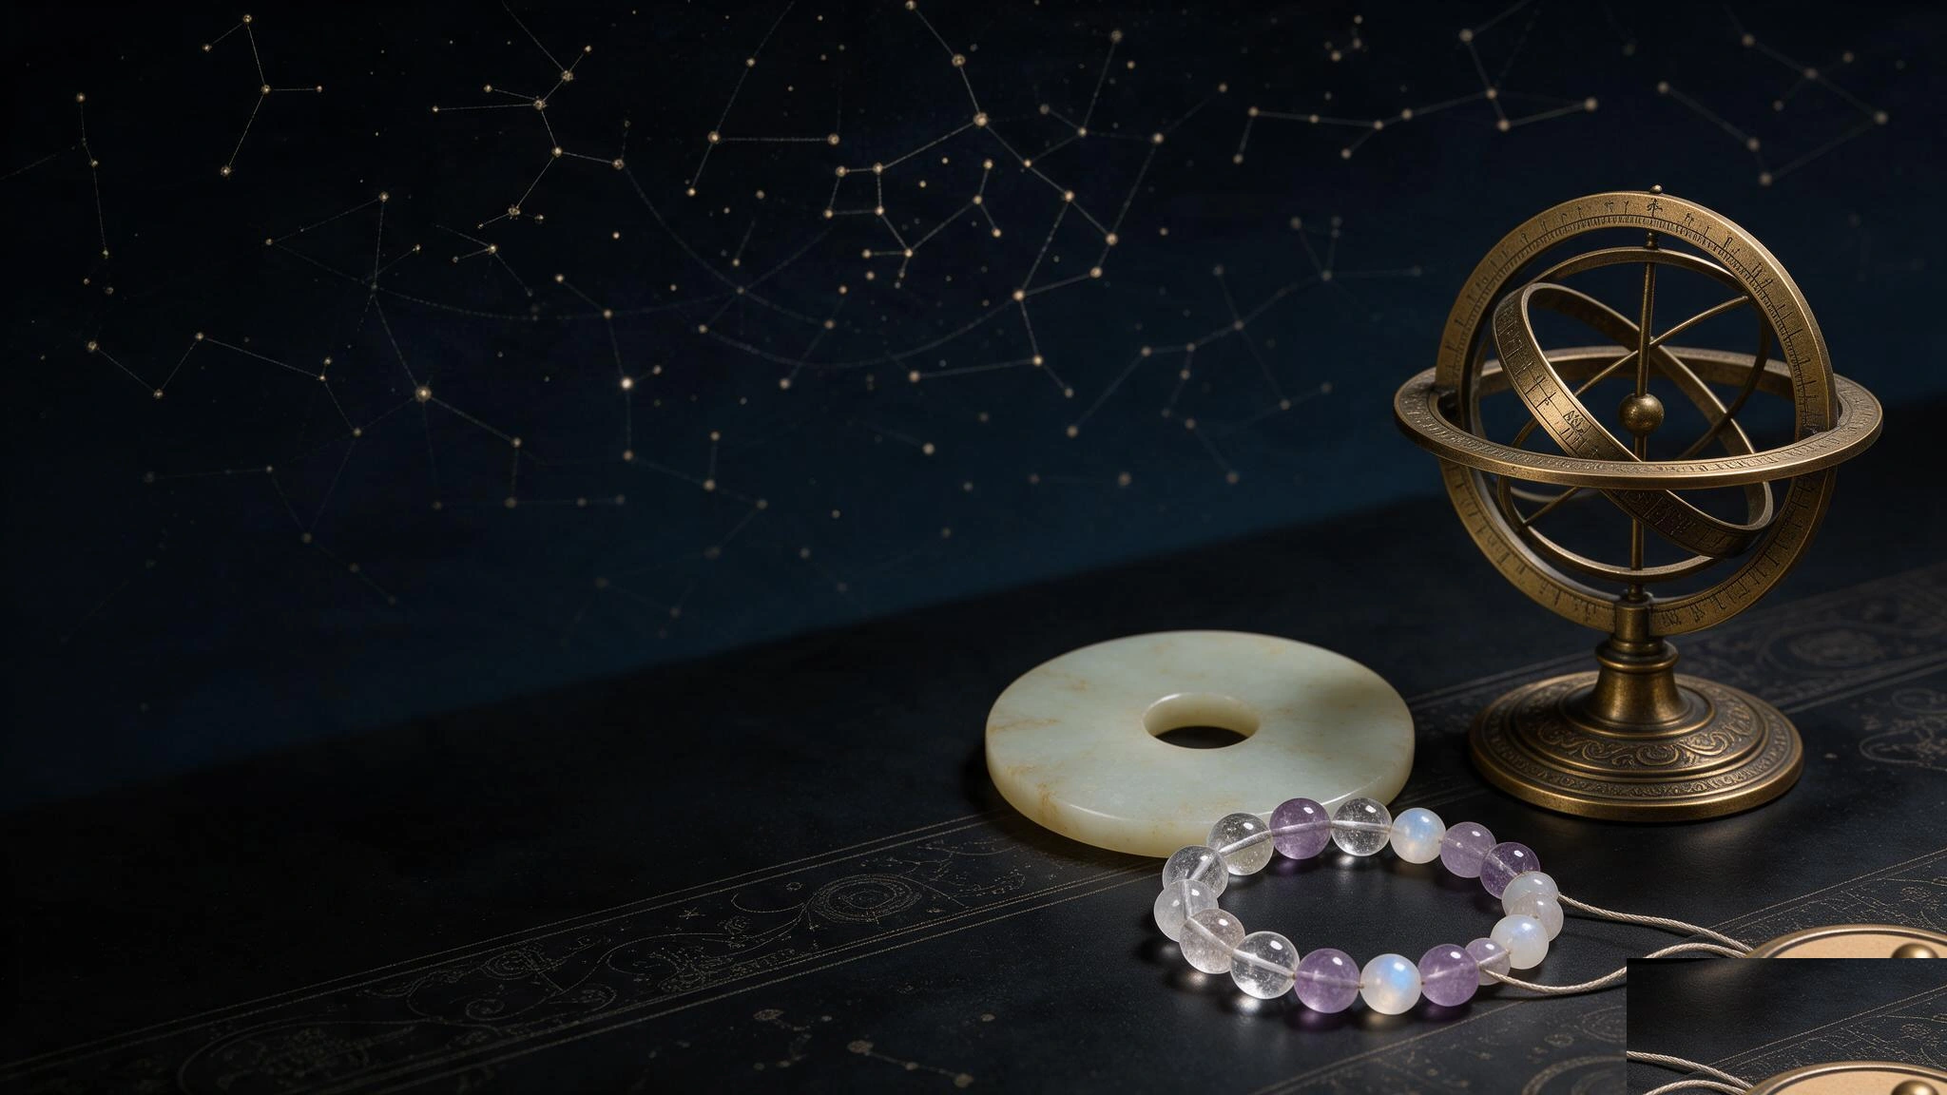
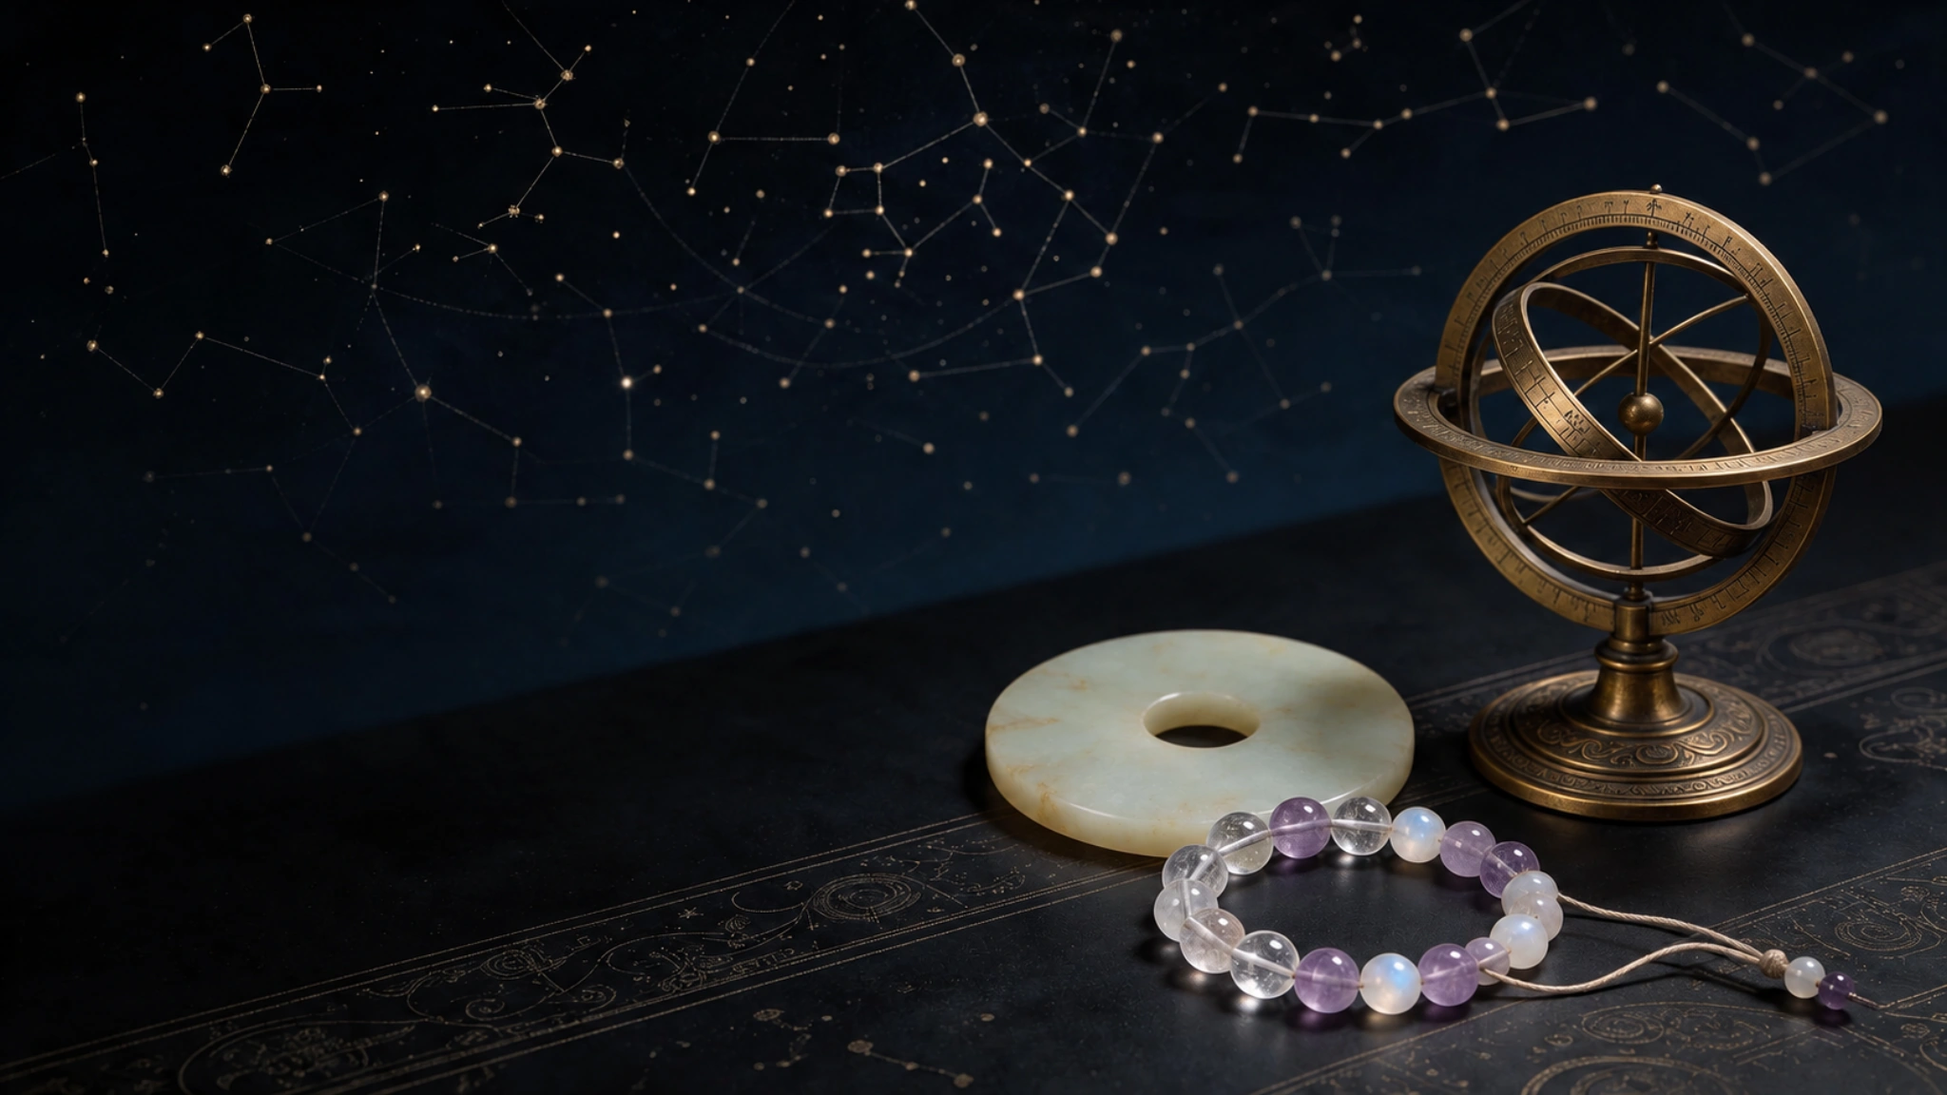
fix(assets): repair star visual seams

diff --git a/docs/tasks/TASK_REGISTRY.md b/docs/tasks/TASK_REGISTRY.md
@@ -36,7 +36,7 @@ All branches below start from the latest integrated `main`. `BASE-004` is alread
 | TASK-ORACLE-FE-001 | QWEN / DeepSeek-V4.1-Flash | `task/oracle-fe-001-client-state` | BACKLOG — ORACLE-CONTRACT-001 `DONE`; may develop against frozen DTOs before BE completion | new `apps/frontend/src/lib/api/oracle-api.ts`, new `apps/frontend/src/lib/api/oracle-api.test.tsx`, new `apps/frontend/src/features/oracle/oracle-coordinator.ts`, new `apps/frontend/src/features/oracle/oracle-coordinator.test.tsx`, new `apps/frontend/src/features/oracle/oracle-question-provider.tsx`, `apps/frontend/src/lib/api/api-runtime.ts`, only this row/acceptance note | UI/routes/navigation, Auth internals, Backend/packages/Prisma, manifests/lockfile, browser storage for question text, other task rows, push/deploy/main merge |
 | TASK-ORACLE-FE-002 | QWEN / Xiaomi MiMo V2.6 Pro | `task/oracle-fe-002-one-tap-ui` | BACKLOG — ORACLE-BE-001, ORACLE-FE-001 and FE-P0-001 `DONE` | new `apps/frontend/app/oracle/**`, new `apps/frontend/src/features/oracle/components/**`, new `apps/frontend/src/features/oracle/oracle.module.css`, new `apps/frontend/src/features/oracle/oracle-motion-preference.ts`, new `apps/frontend/src/features/oracle/oracle-motion-preference.test.tsx`, new `apps/frontend/src/features/oracle/oracle-setup.test.tsx`, new `apps/frontend/src/features/oracle/oracle-result.test.tsx`, `apps/frontend/app/page.tsx`, `apps/frontend/app/navigation.ts`, `apps/frontend/app/layout.tsx`, `apps/frontend/components/mobile-bottom-nav.tsx`, `apps/frontend/src/lib/api/frontend-api-error.ts`, only this row/acceptance note | API coordinator/client, Auth internals, Backend/packages/Prisma, fit constants outside existing frontend export, manifests/lockfile, other task rows, push/deploy/main merge |
 | TASK-ORACLE-QA-001 | GLM / DeepSeek-V4.1-Flash | `task/oracle-qa-001-release-gate` | BACKLOG — all prior Oracle tasks `DONE` | `docs/governance/FEATURE_REGISTRY.md`, `docs/governance/CANONICAL_COMPONENTS.md`, `docs/governance/MODULE_OWNERS.md`, `docs/INDEX.md`, `docs/UI_DESIGN_SYSTEM.md`, `docs/INTERACTION_TEST_PLAN.md`, `docs/DEPENDENCY_DECISIONS.md`, `docs/DEPLOYMENT_GUIDE.md`, `docs/LOCAL_DEMO_GUIDE.md`, new `docs/progress/2026-09-26_STAR_ORACLE_QA_REPORT.md`, `tests/architecture.test.mjs`, ignored canonical evidence under `output/playwright/task-oracle-qa-001/`, only this row/acceptance note | runtime source, schemas/migrations/data, manifests/lockfile, Auth contract, other task rows, noncanonical evidence, push/deploy/main merge |
-| TASK-ASSET-STAR-001 | Xiaomi MiMo V2.6 Pro under Codex supervision | `task/asset-star-001-visual-kit` | REVIEW — claimed 2026-09-28 from accepted `TASK-ORACLE-PLAN-002`; dedicated worktree `.worktrees/asset-star-001-visual-kit`. TDD red/green recorded: `star-assets.test.tsx` first failed on missing seven WebP assets and provenance, then passed 10/10 after delivery. Seven project-owned WebP rasters (hero 2048×1152, four entries 1280×960, two textures 1024×1024) generated 2026-09-28 with Xiaomi MiMo `image_gen`, original-resolution inspected, and deterministically cleared of the generator corner disclosure overlay before WebP encode. `STAR_PLATFORM_ASSETS` typed map, `UPSTREAM_SOURCE.md`, UI manifest section and `docs/progress/2026-09-26_STAR_ASSET_REVIEW.md` record tool/model, prompt summary, transforms, purpose, license, SHA-256 and rejection checklist; one canonical contact sheet under ignored `output/playwright/task-asset-star-001/`. Focused star-assets tests 10/10 PASS; frontend typecheck PASS; frontend suite 1058 pass / 0 fail with 9 pre-existing Auth `cancelledByParent` flakes outside this path set; `git diff --check` PASS. No components, styles, packages, manifests/lockfile, push, deploy or main merge. | new `apps/frontend/public/star-platform/**`, new `apps/frontend/src/features/design/model/star-assets.ts`, new `apps/frontend/src/features/design/model/star-assets.test.tsx`, `docs/UI_REFERENCE_AND_ASSET_MANIFEST.md`, new `docs/progress/2026-09-26_STAR_ASSET_REVIEW.md`, ignored canonical evidence under `output/playwright/task-asset-star-001/`, only this row/acceptance note | application components/styles, existing product/source assets, Backend/packages/Prisma, manifests/lockfile, other task rows, transient source renders/duplicate evidence, push/deploy/main merge |
+| TASK-ASSET-STAR-001 | Xiaomi MiMo V2.6 Pro under Codex supervision | `task/asset-star-001-visual-kit` | REVIEW — claimed 2026-09-28 from accepted `TASK-ORACLE-PLAN-002`; dedicated worktree `.worktrees/asset-star-001-visual-kit`. TDD red/green recorded: `star-assets.test.tsx` first failed on missing seven WebP assets and provenance, then passed 10/10 after delivery. Seven project-owned WebP rasters use the contract sizes (hero 2048×1152, four entries 1280×960, two textures 1024×1024). Codex rejected the first 2026-09-28 asset submission because four deterministic disclosure-overlay clone repairs had visible rectangular seams; hero / AI / Oracle / DIY were repaired from their project-owned originals with image-to-image generation on 2026-09-29 and independently re-inspected at original resolution with no patch boundary. `STAR_PLATFORM_ASSETS`, provenance, manifest, review report and ignored canonical contact sheet record the final tool/model history, transforms, purpose, license, SHA-256 and rejection checklist. Independent verification: focused 10/10 PASS; full frontend suite 1067/1067 PASS using quoted glob; typecheck, lint, production build and `git diff --check` PASS. Awaiting repository-wide validation and acceptance commit. No components, styles, packages, manifests/lockfile, push, deploy or main merge. | new `apps/frontend/public/star-platform/**`, new `apps/frontend/src/features/design/model/star-assets.ts`, new `apps/frontend/src/features/design/model/star-assets.test.tsx`, `docs/UI_REFERENCE_AND_ASSET_MANIFEST.md`, new `docs/progress/2026-09-26_STAR_ASSET_REVIEW.md`, ignored canonical evidence under `output/playwright/task-asset-star-001/`, only this row/acceptance note | application components/styles, existing product/source assets, Backend/packages/Prisma, manifests/lockfile, other task rows, transient source renders/duplicate evidence, push/deploy/main merge |
 | TASK-UI-STAR-001 | QWEN / Xiaomi MiMo V2.6 Pro | `task/ui-star-001-foundation` | BACKLOG — QA-P0-001, ORACLE-QA-001 and ASSET-STAR-001 `DONE` | new `apps/frontend/app/styles/star-tokens.css`, new `apps/frontend/app/styles/star-shell.css`, new `apps/frontend/app/styles/star-components.css`, new `apps/frontend/app/styles/star-acquisition.css`, new `apps/frontend/app/styles/star-workbench.css`, new `apps/frontend/app/styles/star-content.css`, `apps/frontend/app/globals.css`, `apps/frontend/app/atelier.css`, `apps/frontend/app/layout.tsx`, `apps/frontend/app/navigation.ts`, `apps/frontend/components/mobile-bottom-nav.tsx`, `apps/frontend/components/page-scaffold.tsx`, new `packages/ui/src/star-surface.tsx`, new `packages/ui/src/instrument-button.tsx`, new `packages/ui/src/constellation-divider.tsx`, new `packages/ui/src/status-panel.tsx`, `packages/ui/src/index.ts`, `packages/ui/package.json`, new `packages/ui/tests/star-primitives.test.tsx`, `pnpm-lock.yaml`, new `apps/frontend/src/features/design/star-shell-contract.test.tsx`, `docs/governance/FEATURE_REGISTRY.md`, `docs/governance/CANONICAL_COMPONENTS.md`, only this row/acceptance note | feature business behavior, Auth internals, Backend/Prisma/contracts, root workspace config, unrelated package/UI files, other task rows, push/deploy/main merge |
 | TASK-FE-STAR-001 | QWEN / Xiaomi MiMo V2.6 Pro | `task/fe-star-001-guided-flows` | BACKLOG — UI-STAR-001, ASSET-STAR-001 and ORACLE-FE-002 `DONE` | `apps/frontend/app/page.tsx`, `apps/frontend/app/styles/star-acquisition.css`, `apps/frontend/src/features/questionnaire/components/questionnaire-wizard.tsx`, `apps/frontend/src/features/questionnaire/components/wrist-measurement-guide.tsx`, `apps/frontend/src/features/design/components/design-results.tsx`, `apps/frontend/src/features/design/components/design-summary.tsx`, `apps/frontend/src/features/design/components/compliance-notice.tsx`, `apps/frontend/src/features/design/frontend-ai-flow.test.tsx`, `apps/frontend/src/features/tarot/components/tarot-setup.tsx`, `apps/frontend/src/features/tarot/components/tarot-draw.tsx`, `apps/frontend/src/features/tarot/components/tarot-fan.tsx`, `apps/frontend/src/features/tarot/components/tarot-slots.tsx`, `apps/frontend/src/features/tarot/components/tarot-result.tsx`, `apps/frontend/src/features/tarot/components/tarot-recommendation-card.tsx`, `apps/frontend/src/features/tarot/tarot.module.css`, `apps/frontend/src/features/tarot/tarot-setup.test.tsx`, `apps/frontend/src/features/tarot/tarot-draw.test.tsx`, `apps/frontend/src/features/tarot/tarot-result.test.tsx`, `apps/frontend/src/features/oracle/components/oracle-setup.tsx`, `apps/frontend/src/features/oracle/components/oracle-reveal.tsx`, `apps/frontend/src/features/oracle/components/oracle-lines.tsx`, `apps/frontend/src/features/oracle/components/oracle-result.tsx`, `apps/frontend/src/features/oracle/oracle.module.css`, `apps/frontend/src/features/oracle/oracle-setup.test.tsx`, `apps/frontend/src/features/oracle/oracle-result.test.tsx`, only this row/acceptance note | coordinators/API/state machines, Auth internals, Backend/packages/Prisma, manifests/lockfile, other task rows, push/deploy/main merge |
 | TASK-FE-STAR-002 | QWEN / Xiaomi MiMo V2.6 Pro | `task/fe-star-002-diy-workbench` | BACKLOG — UI-STAR-001 and FE-P0-004 `DONE`; may parallel FE-STAR-001 because their registered paths are disjoint | `apps/frontend/src/features/design/components/diy-editor.tsx`, `apps/frontend/src/features/design/components/flat-bracelet-editor.tsx`, `apps/frontend/src/features/design/components/display-tray.tsx`, `apps/frontend/src/features/design/components/crystal-bead-image.tsx`, `apps/frontend/src/features/design/components/design-component-list.tsx`, `apps/frontend/src/features/design/components/price-summary.tsx`, `apps/frontend/src/features/design/components/wear-fit-summary.tsx`, `apps/frontend/app/styles/star-workbench.css`, `apps/frontend/src/features/design/atelier-ui-contract.test.tsx`, `apps/frontend/src/features/design/model/display-tray.test.tsx`, `apps/frontend/src/features/design/model/visual-assets.test.tsx`, only this row/acceptance note | design/API/Bracelet behavior, Backend/packages/Prisma, product asset recoloring, manifests/lockfile, other task rows, push/deploy/main merge |

diff --git a/apps/frontend/public/star-platform/UPSTREAM_SOURCE.md b/apps/frontend/public/star-platform/UPSTREAM_SOURCE.md
@@ -1,7 +1,8 @@
 # Star Platform Visual Kit — Upstream Source and Provenance
 
-Owner: `TASK-ASSET-STAR-001` (Xiaomi MiMo V2.6 Pro under Codex supervision)
+Owner: `TASK-ASSET-STAR-001` (Xiaomi MiMo V2.6 Pro generation and Codex-supervised repair)
 Generation date: 2026-09-28
+Repair date: 2026-09-29
 Branch: `task/asset-star-001-visual-kit`
 License / ownership: Project-owned original generation. No competitor image, stock photo, user photo, planning screenshot, or third-party site asset was used as input or output. Runtime rights remain with the Mystcrag project.
 
@@ -9,11 +10,11 @@ License / ownership: Project-owned original generation. No competitor image, sto
 
 | Field | Value |
 | --- | --- |
-| Tool | Xiaomi MiMo `image_gen` (MiMo Desktop built-in image generation) |
-| Model | Xiaomi MiMo image generation service (session default) |
+| Tool | Xiaomi MiMo `image_gen` for the original seven-image kit; OpenAI image generation for seam-free repair of hero / AI / Oracle / DIY scenes |
+| Model | Xiaomi MiMo image generation service (session default); OpenAI image generation service (session default) |
 | Quality | `high` for hero and four entry scenes; `medium` for two seamless textures |
-| Native source format | PNG (RGBA) |
-| Delivery format | WebP (RGB, quality 95, method 6) via Pillow (`MIMO_PYTHON`) |
+| Native source format | PNG (RGB/RGBA) |
+| Delivery format | WebP (RGB, quality 95, method 6) via `cwebp` for repaired scenes; original MiMo pipeline for unchanged assets |
 | Prompt language | English structured prompts (imagegen skill template) |
 | Visual direction authority | `docs/superpowers/specs/2026-09-26-star-oracle-crystal-design.md` §9 and Full UI Redesign plan Task 1 / Global Constraints |
 
@@ -33,22 +34,22 @@ Shared palette: obsidian / ink-indigo night, warm xuan paper, aged brass (matte 
 | `xuan-paper-grain.webp` | Flat even warm xuan paper fiber grain; tileable surface; no subject | Content panel texture (decorative) | xuan-paper |
 | `engraved-star-map.webp` | Flat Song-style engraved star-map linework (arcs, star points, concentric scale rings) on obsidian ground; no glyphs | Dark instrument surface texture (decorative) | obsidian-night |
 
-## Local transformations
+## Local transformations and repair history
 
 1. Sources saved as PNG in session working directory by `image_gen`, then copied to ignored evidence `output/playwright/task-asset-star-001/sources/` under `TASK-ASSET-STAR-001`.
-2. Dimensions verified with Pillow: hero 2048×1152; entries 1280×960; textures 1024×1024 (all multiples of 16 at generation; hero ≥ 1920×1080; entries ≥ 1200×900).
-3. Platform disclosure overlay (「AI生成」 + Xiaomi MiMo wordmark) that the generator stamps in the bottom-right corner is **not** artistic content and must not ship as product branding. Deterministic numpy clone-repair replaced only that corner plate (flush to right/bottom edges; source pixels cloned from the adjacent same-material region — above for brass/paper, left for dark lacquer/paper). No other pixels were recolored, tinted, or restyled.
-4. RGB composite (sources were opaque), then WebP encode at quality 95 / method 6. No chroma subsample tricks, no sharpening, no color LUT, no product recolor.
-5. SHA-256 computed on delivered WebP bytes.
+2. The first deterministic corner clone-repair left visible rectangular seams in `hero-observatory`, `entry-ai`, `entry-oracle`, and `entry-diy`; Codex's independent original-resolution review rejected those four files.
+3. On 2026-09-29 each rejected scene was repaired with image-to-image generation using only its project-owned original as visual input. Prompts required preservation of composition, palette, primary subject and route purpose, while reconstructing the lower-right region without a seam, repeated texture, text, logo or watermark.
+4. Repaired PNGs were resized mechanically and encoded with `cwebp` at quality 95 / method 6 to the contract dimensions: hero 2048×1152 and entries 1280×960. Unchanged Tarot and texture assets retain the original MiMo delivery bytes.
+5. Every delivered WebP was re-inspected at original resolution, then SHA-256 was computed on the final runtime bytes.
 
 ## Delivered assets
 
 | Runtime file | Size | Bytes | SHA-256 |
 | --- | --- | ---: | --- |
[11 lines of base64/hex data omitted]

diff --git a/docs/progress/2026-09-26_STAR_ASSET_REVIEW.md b/docs/progress/2026-09-26_STAR_ASSET_REVIEW.md
@@ -2,20 +2,20 @@
 
 **Task:** `TASK-ASSET-STAR-001`
 **Branch:** `task/asset-star-001-visual-kit`
-**Reviewer:** Xiaomi MiMo V2.6 Pro (generation + original-resolution inspection), under Codex supervision
-**Date:** 2026-09-28
+**Reviewer:** Codex (independent original-resolution inspection; Xiaomi MiMo V2.6 Pro original generation)
+**Date:** 2026-09-29
 **Evidence root (ignored):** `output/playwright/task-asset-star-001/`
 
 ## Outcome
 
-The seven licensed Star Platform rasters and the provenance document are delivered. Original-resolution human inspection was performed on every source PNG and on the delivered WebP corner regions. Automated `star-assets.test.tsx` asserts file presence, WebP magic, minimum dimensions, typed intrinsic sizes, Chinese alt intent, SHA-256 agreement with provenance, and this report / manifest coverage. Automated tests do **not** claim to detect text or symbol content inside pixels; that gate is this manual review.
+The seven licensed Star Platform rasters and the provenance document are delivered. Codex rejected the first submission because four deterministic disclosure-overlay repairs left visible rectangular seams. Those four scenes were regenerated from the project-owned originals and re-inspected at original resolution; the final WebPs have no visible patch boundary. Automated `star-assets.test.tsx` asserts file presence, WebP magic, minimum dimensions, typed intrinsic sizes, Chinese alt intent, SHA-256 agreement with provenance, and this report / manifest coverage. Automated tests do **not** claim to detect text or symbol content inside pixels; that gate is this manual review.
 
 ## Canonical contact sheet
 
 Exactly one canonical contact sheet is recorded:
 
 - Path: `output/playwright/task-asset-star-001/sources/canonical-contact-sheet.png`
-- Layout: 2×4 grid of delivered WebP thumbnails with role and intrinsic size labels
+- Layout: 2×4 grid of the seven delivered WebP thumbnails plus one empty reserved cell; file names and intrinsic sizes are mapped in the table below
 - Purpose: single review artifact for Codex / QA citation; not a runtime asset and not committed
 
 ## Original-resolution inspection
@@ -44,22 +44,20 @@ Exactly one canonical contact sheet is recorded:
 
 ## Transformations
 
-1. `image_gen` PNG sources → evidence `sources/*.png` (ignored).
-2. Pillow dimension verify.
-3. Deterministic numpy clone-repair of the generator's bottom-right **platform disclosure overlay** only (「AI生成」 + Xiaomi MiMo wordmark). Adjacent same-material pixels; flush to right/bottom edges; no recolor of product materials.
-4. WebP RGB encode, quality 95, method 6.
-5. SHA-256 on delivered bytes (see `UPSTREAM_SOURCE.md` and `asset-hashes.json`).
-
-Note: some image viewers re-stamp an AI disclosure mark when previewing local files. Reviewer conclusions were based on raw WebP pixel grids and high-pass energy in the former overlay band (smooth-texture entries show `br_hp_p99` ≈ 3–10, consistent with no text).
+1. Xiaomi MiMo generated the original PNG kit; sources are retained only as ignored task evidence.
+2. Codex inspected the delivered WebPs at original resolution and rejected visible rectangular clone-repair seams in hero / AI / Oracle / DIY.
+3. OpenAI image-to-image generation reconstructed the affected lower-right regions from the project-owned originals, with explicit no-text / no-logo / no-watermark / no-seam constraints.
+4. `cwebp` performed only contract-size resize and WebP RGB encode (quality 95, method 6); no LUT, recolor or synthetic sharpening was added.
+5. Codex re-inspected the final files at original resolution and SHA-256 was recomputed on delivered bytes.
 
 ## Provenance fields (also in `UPSTREAM_SOURCE.md`)
 
 | Field | Value |
 | --- | --- |
 | Generation date | 2026-09-28 |
-| Tool / model | Xiaomi MiMo `image_gen` (MiMo Desktop) |
+| Tool / model | Xiaomi MiMo `image_gen` original kit; OpenAI image generation repair for hero / AI / Oracle / DIY |
 | Prompt summary | Obsidian/ink-indigo + xuan paper + aged brass + amethyst + moon silver; Song star-map / armillary / jade bi / scales; quiet precision; explicit rejects (see checklist) |
-| Transform | Disclosure-overlay clone repair + WebP encode (above) |
+| Transform | Image-to-image seam repair for four rejected scenes + contract-size WebP encode (above) |
 | Use | Home hero / four entry cards / two decorative textures |
 | License | Project-owned generation; no third-party input media |
 | Digests | Per-file SHA-256 in `UPSTREAM_SOURCE.md` |

diff --git a/docs/UI_REFERENCE_AND_ASSET_MANIFEST.md b/docs/UI_REFERENCE_AND_ASSET_MANIFEST.md
@@ -84,6 +84,6 @@ All paths below are relative to `apps/frontend/public`. Consumers must use `STAR
 - Existing Tarot card provenance is recorded in `apps/frontend/public/tarot/cards/UPSTREAM_SOURCE.md`.
 - Home scenes, trays, wrist guide, state scenes and demo avatar are project-owned generated assets.
[1 lines of base64/hex data omitted]
-- Star Platform kit (`/star-platform/*`) was generated on 2026-09-28 with Xiaomi MiMo `image_gen` under `TASK-ASSET-STAR-001`, then deterministically cleaned of the generator's corner disclosure overlay and encoded to WebP. Full tool/model, prompt summary, transforms, purpose, license, SHA-256 and rejection checklist are in `apps/frontend/public/star-platform/UPSTREAM_SOURCE.md`. Reviewer record: `docs/progress/2026-09-26_STAR_ASSET_REVIEW.md`.
[1 lines of base64/hex data omitted]
+- Star Platform kit (`/star-platform/*`) was generated on 2026-09-28 with Xiaomi MiMo `image_gen` under `TASK-ASSET-STAR-001`. Codex rejected four visible corner-repair seams; hero / AI / Oracle / DIY were repaired from their project-owned originals with OpenAI image generation on 2026-09-29, then resized and encoded to WebP. Full tool/model, prompt summary, transforms, purpose, license, SHA-256 and rejection checklist are in `apps/frontend/public/star-platform/UPSTREAM_SOURCE.md`. Reviewer record: `docs/progress/2026-09-26_STAR_ASSET_REVIEW.md`.
[1 lines of base64/hex data omitted]
 - Reference screenshots are internal implementation/QA evidence, not runtime assets.
